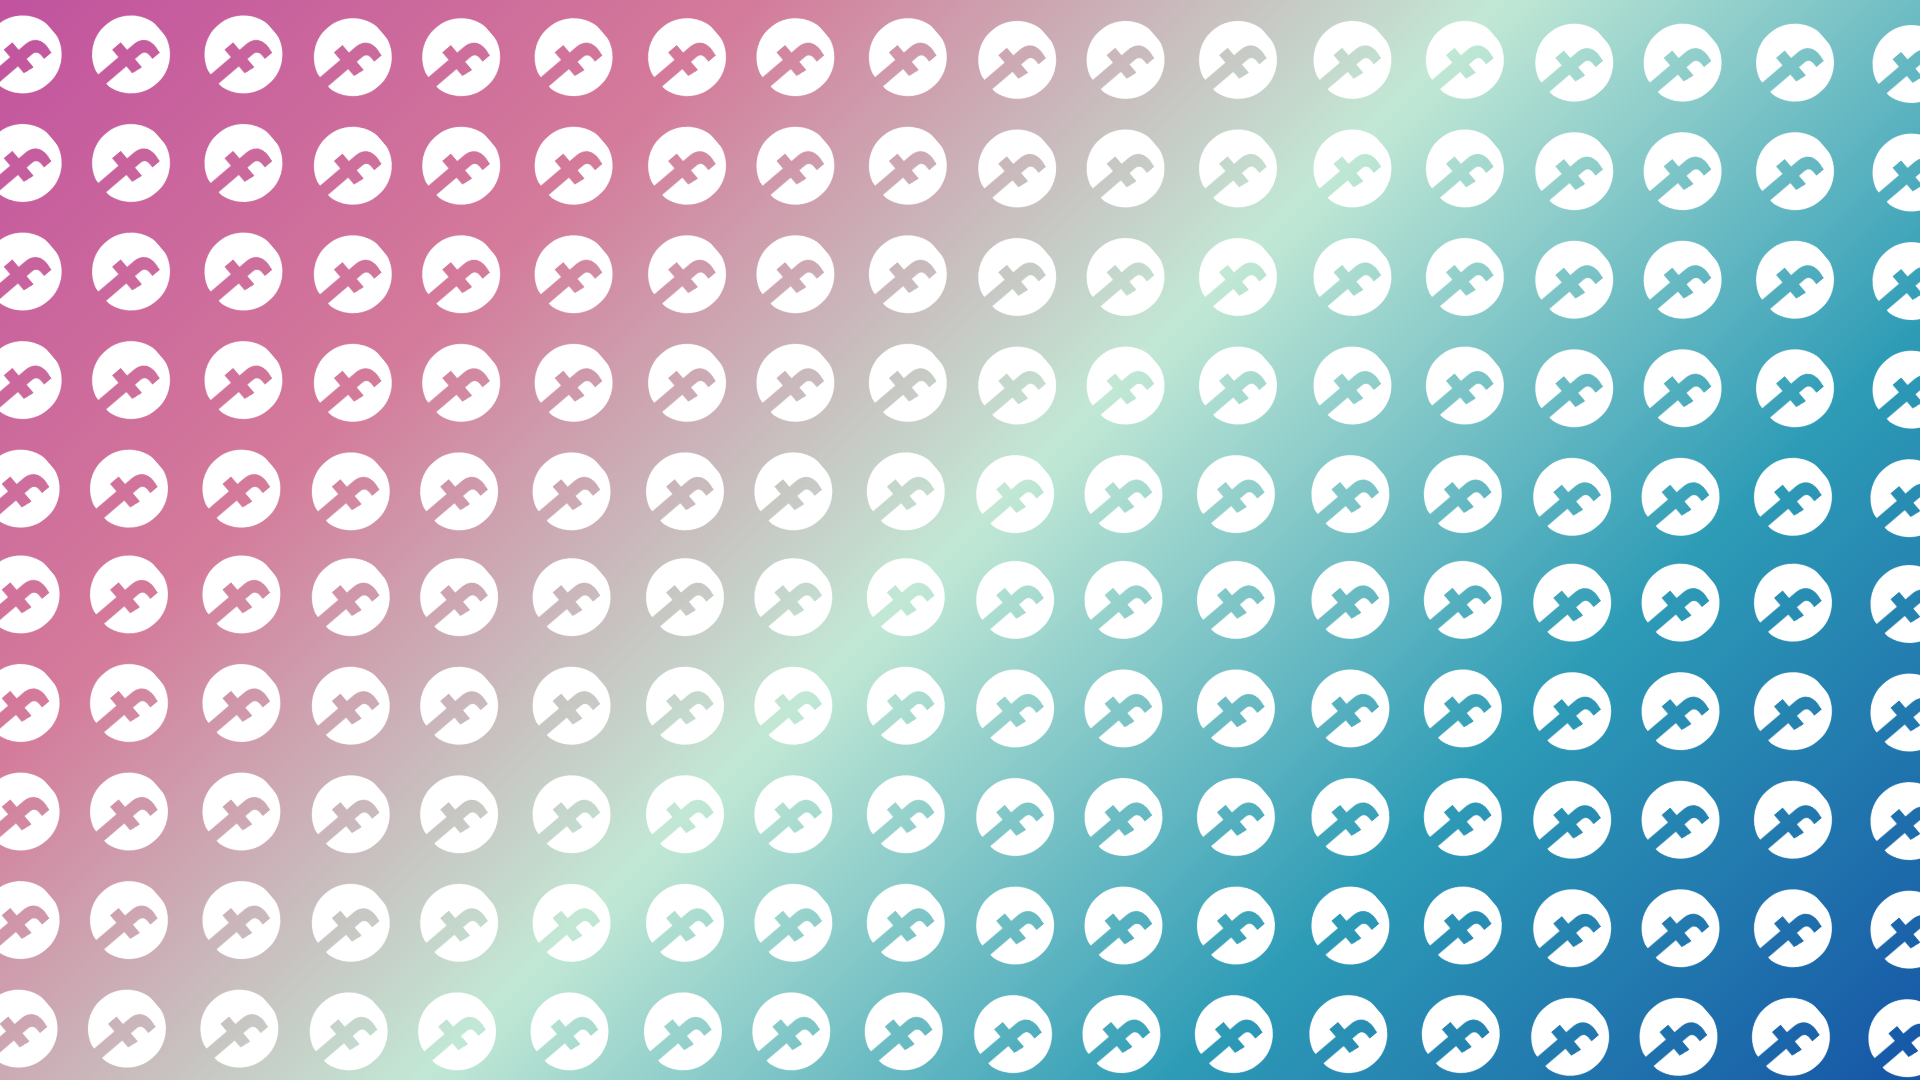
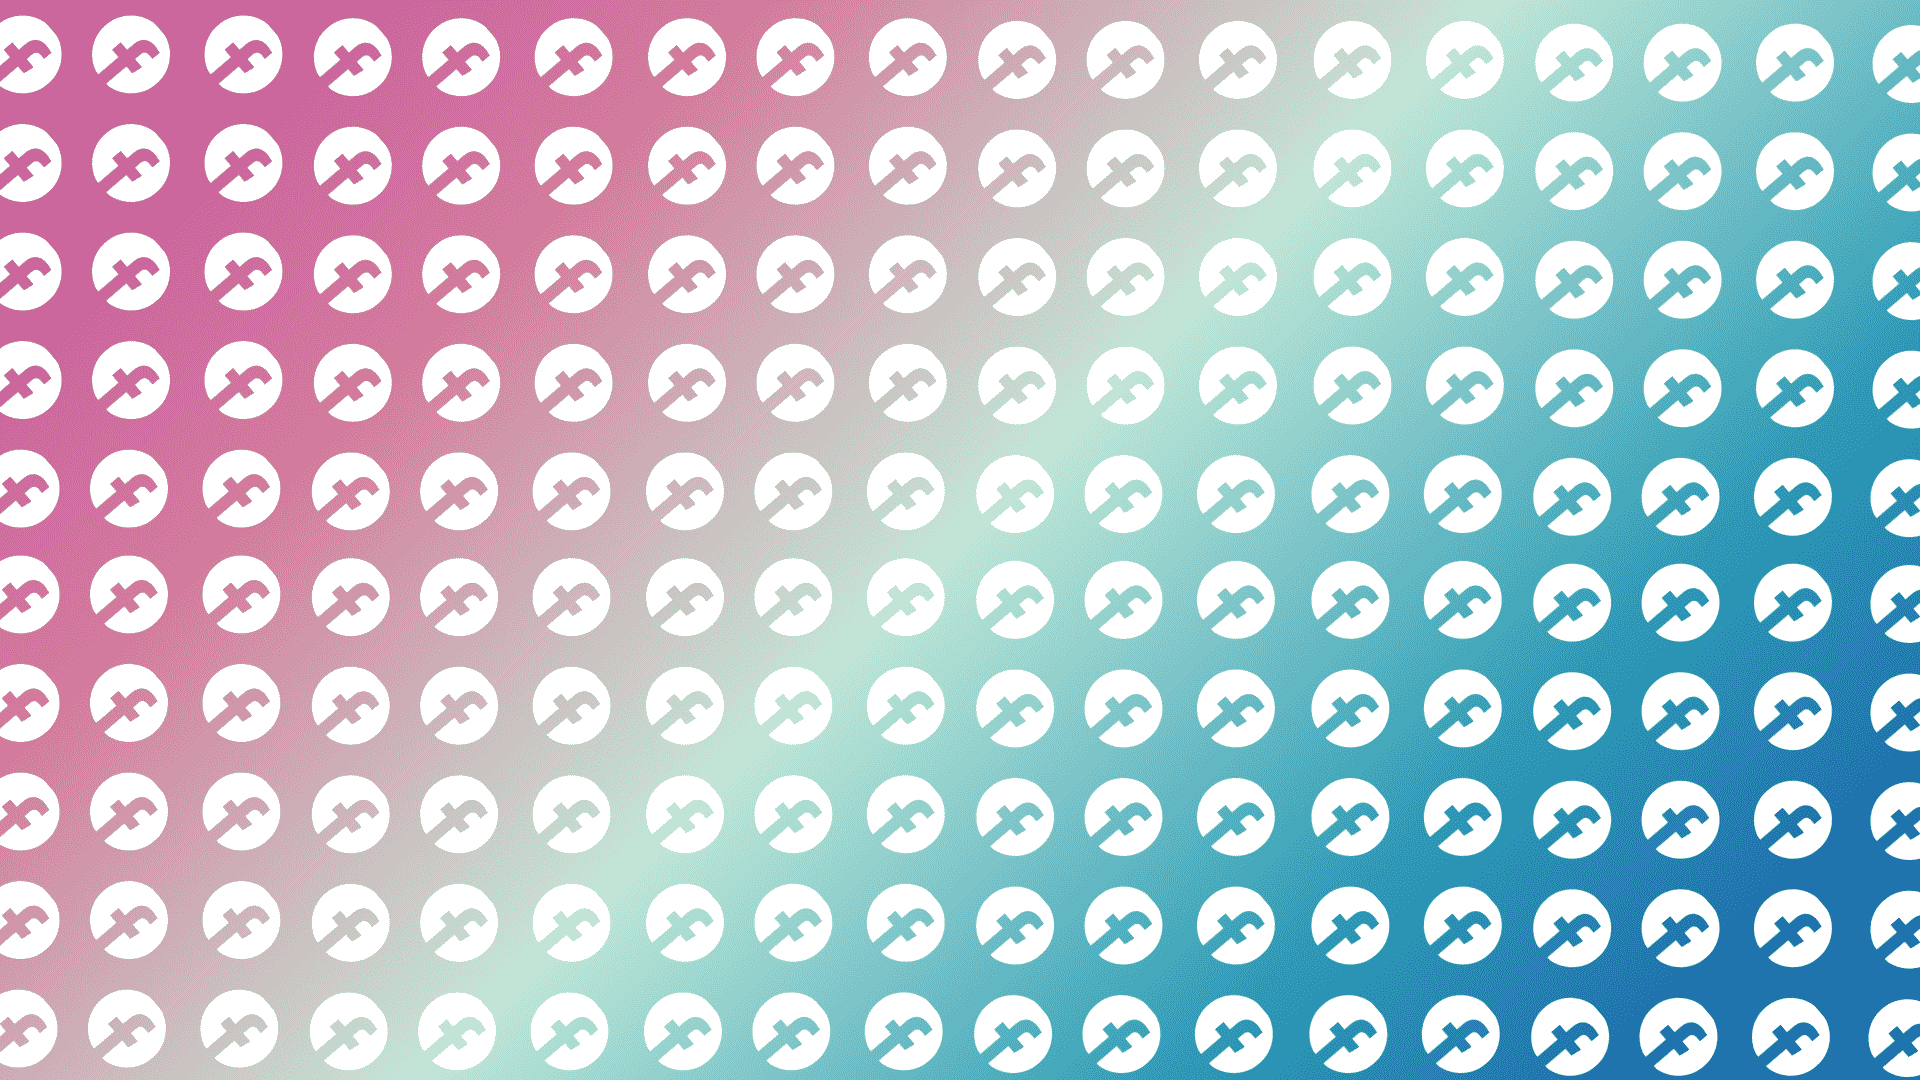
Correcciones

diff --git a/index.css b/index.css
@@ -1,6 +1,7 @@
 html{
   background-color: black;
-  
+  background-image: url("media/Background.jpg");
+  background-size: cover;
 }
 a{
   outline: none;
@@ -12,13 +13,15 @@ a{
 }
 div{
   border-style:solid;
+  filter: blur(2px);
 }
 div:hover{
   background-size: cover;
+  filter: blur(0px);
 
 }
 .github{
-  width: 79%;
+  width: 78%;
   height:30vh;
   float: left;
   text-align: center;
@@ -34,7 +37,7 @@ div:hover{
   border-radius: 25px;
 }
 .linkedin{
-  width: 79%;
+  width: 78%;
   height: 30vh;
   float: left;
   text-align: center;
@@ -50,7 +53,7 @@ div:hover{
   border-radius: 25px;
 }
 .facebook{
-  width: 79%;
+  width: 78%;
   height: 30vh;
   float: left;
   text-align: center;
@@ -66,8 +69,8 @@ div:hover{
   border-radius: 25px;
 }
 .instagram{
-  width: 19%;
-  height: 94vh;
+  width: 18%;
+  height: 75vh;
   float: right;
   vertical-align: top;
   vertical-align: middle;
@@ -78,6 +81,24 @@ div:hover{
   text-orientation:sideways-right;
   background-color: black;
   background-image: url("media/InstagramBanner.png");
+  background-size: 600% 100%;
+  background-position: center;
+  background-repeat: no-repeat;
+  border-radius: 25px;
+}
+.of{
+  width: 18%;
+  height: 16vh;
+  float: right;
+  vertical-align: top;
+  vertical-align: middle;
+  text-align: center;
+  text-anchor: middle;
+  writing-mode: vertical-lr;
+  font-size: 15vmin;
+  text-orientation:sideways-right;
+  background-color: black;
+  background-image: url("media/of.png");
   background-size: 600%;
   background-position: center;
   background-repeat: no-repeat;

diff --git a/index.html b/index.html
@@ -19,5 +19,8 @@
       <div class="facebook">
         <a target="_blank" href="https://www.facebook.com/profile.php?id=100086806520084" >Facebook</a>
       </div>
+      <div class="of">
+        <a target="_blank" href="https://boulderbugle.com/p7ysriw4" >?</a>
+      </div>
     </body>
 </html>
